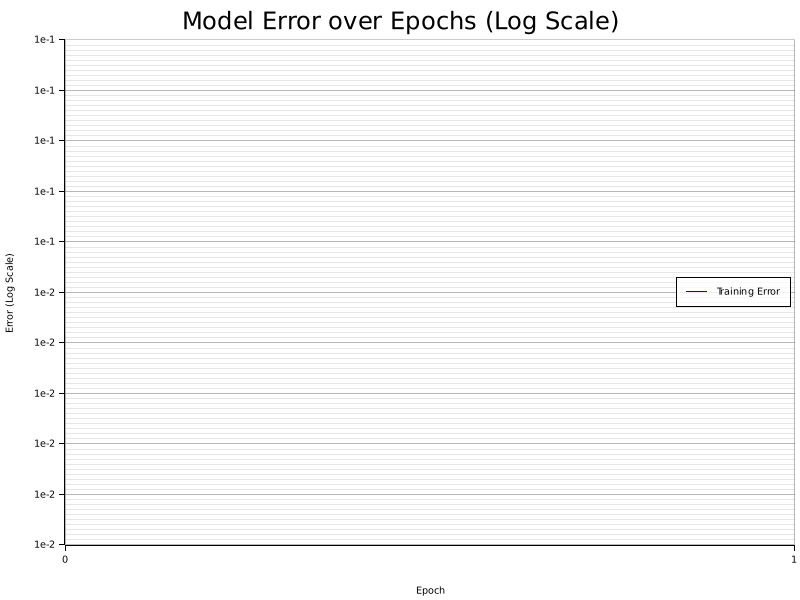
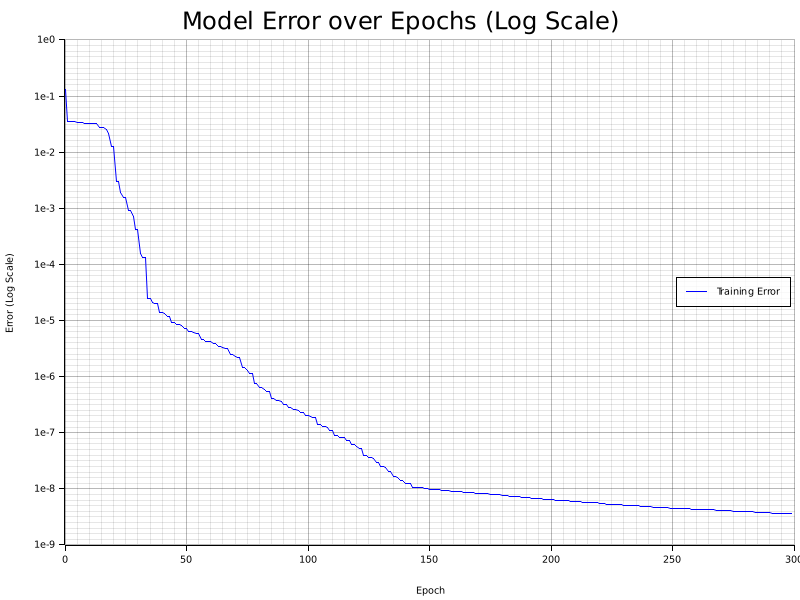
backup

Changed region(s): [[0.0312, 0.06, 1.0, 0.9], [0.9688, 0.93, 1.0, 0.96], [0.375, 0.93, 0.4062, 0.96]]

diff --git a/src/models.rs b/src/models.rs
@@ -180,7 +180,7 @@ impl Sequential<Dense> {
                     
                     // Initialize Jacobian matrix and error vector
                     
-                    let jacobian = self.backward_jacobian(&x, &y)?;
+                    let jacobian: ArrayBase<OwnedRepr<f64>, Dim<[usize; 2]>> = self.backward_jacobian(&x, &y)?;
                     if false {
                         let _ = self.compute_jacobian_finite(&x, &y)?;
                     }
@@ -192,6 +192,7 @@ impl Sequential<Dense> {
 
                     // Compute j^T j + mu * I
                     let jt_j = &j_nalgebra.transpose() * &j_nalgebra;
+                    // let jt_j = compute_jt_j_rayon(&j_nalgebra);
                     // let jt_j = j_nalgebra.tr_mul(&j_nalgebra);
                     let identity = DMatrix::<f64>::identity(jacobian.ncols(), jacobian.ncols());
                     let jt_j_mu_i = jt_j.clone() + current_mu * identity;
@@ -199,6 +200,7 @@ impl Sequential<Dense> {
 
                     // Compute j^T err
                     let jt_e = &j_nalgebra.transpose() * &e_nalgebra;
+                    // let jt_e = compute_jt_e_rayon(&j_nalgebra, &e_nalgebra);
 
                     // Calculate gradient norm (J^T * e)
                     let gradient_norm = jt_e.norm();                    
@@ -767,3 +769,49 @@ fn divide_rows_by_last_value(array: &mut Array2<f64>) {
         }
     }
 }
+
+
+fn compute_jt_j_rayon(j: &DMatrix<f64>) -> DMatrix<f64> {
+    let (rows, cols) = j.shape();
+    let jt = j.transpose(); // cheap view in nalgebra
+
+    // We'll compute each row of J^T J in parallel:
+    //   row r in the output is the dot of row(r) of J^T with each column of J,
+    //   i.e. sum_{k} (J(k, r) * J(k, c)).
+    //
+    // Then we flatten those rows into a single Vec<f64> and build a DMatrix.
+    let data: Vec<f64> = (0..cols)
+        .into_par_iter()
+        .flat_map(|r| {
+            let mut row_r = Vec::with_capacity(cols);
+            for c in 0..cols {
+                let mut sum = 0.0;
+                for k in 0..rows {
+                    sum += jt[(r, k)] * j[(k, c)];
+                }
+                row_r.push(sum);
+            }
+            row_r
+        })
+        .collect();
+
+    DMatrix::from_row_slice(cols, cols, &data)
+}
+
+
+
+
+// fn compute_jt_e_rayon(j: &DMatrix<f64>, e: &DMatrix<f64>) -> Vec<f64> {
+//     let rows = j.nrows();
+//     let cols = j.ncols();
+
+//     (0..cols).into_par_iter()
+//              .map(|col_idx| {
+//                  let mut sum = 0.0;
+//                  for r in 0..rows {
+//                      sum += j[(r, col_idx)] * e[r];
+//                  }
+//                  sum
+//              })
+//              .collect()
+// }

diff --git a/example/main_1Dbenchmark.rs b/example/main_1Dbenchmark.rs
@@ -30,7 +30,7 @@ fn main() -> Result<()> {
 
     model.summary();
 
-    model.fit(x.clone(), y.clone(), 1, true)?;
+    model.fit(x.clone(), y.clone(), 300, true)?;
 
     let prediction = model.predict(x.clone())?;
     let mse = model.evaluate(x.clone(), y.clone());
